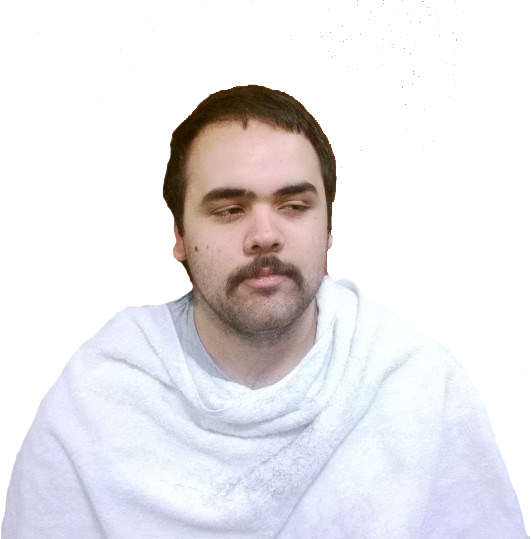
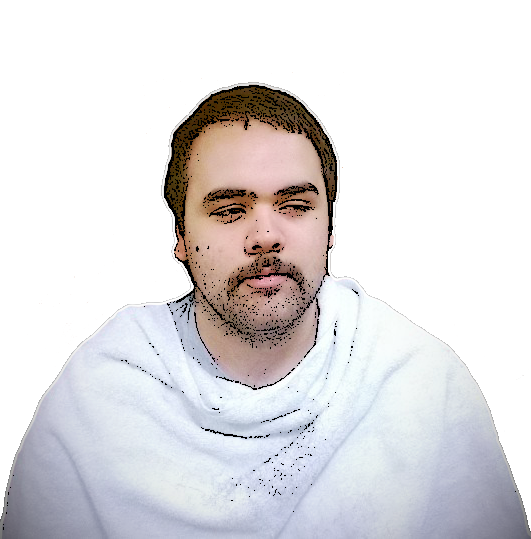
Redo photos; add sponsors and ads

diff --git a/info.html b/info.html
@@ -50,8 +50,7 @@
                     <div id="home" class="card largeMargin transparent center-align valign-wrapper">
                         <div class="full-width">
                             <h1>CoREhacks</h1>
-                            <h2>February 5-7, 2016</h2>
-                            <br />
+                            <h2>February 5-7, 2016</h2> 
                             <h2>Brainstorm ideas and <br /> work on CoRE projects!</h2>
                         </div>
                     </div>
@@ -139,6 +138,30 @@
                             <span class="card-title">Sponsors</span>
                             <p>
                                 <img src="assets/img/sponsors/core.png" />
+                                <div class="row addPadding">
+                                    <div class="col s6">
+                                        <div class="valign-wrapper center-align sponsor">
+                                            <img class="round" src="assets/img/sponsors/david.png">
+                                            <div class="valign name">
+                                                <p>David Kueper</p>
+                                            </div>
+                                        </div>
+                                    </div>
+                                    <div class="col s6">
+                                        <div class="valign-wrapper center-align sponsor">
+                                            <img class="round" src="assets/img/sponsors/carl.png">
+                                            <div class="valign name">
+                                                <p>Carl the Fish</p>
+                                            </div>
+                                        </div>
+                                    </div>
+                                </div>
+                                <div id="adSection">
+                                    <p>Sponsored Ad</p>
+                                    <a href="" target="_blank">
+                                        <img id="adImage" src="" />
+                                    </a>
+                                </div>
                             </p>
                         </div>
                     </div>
@@ -202,6 +225,17 @@
                     }, 500);
                     return false;
                 });
+
+                if (!!Math.floor(Math.random() * 2))
+                {
+                    $('#adSection a').prop('href', 'http://www.twitch.tv/tiredoflosing');
+                    $('#adSection img').prop('src', 'assets/img/sponsors/twitch-ad.png');
+                }
+                else
+                {
+                    $('#adSection a').prop('href', 'https://www.youtube.com/user/gabeochoa');
+                    $('#adSection img').prop('src', 'assets/img/sponsors/corecast-ad.png');
+                }
 
                 $('button').click(function() {
                     $('button').text('Now there\'s really no turning back');

diff --git a/assets/css/style.css b/assets/css/style.css
@@ -205,7 +205,7 @@ span.section-title {
     width: 18%;
     bottom: -28%; 
     height: auto;
-}        
+}
 
 #footer .bryan {
     -moz-transform: scaleX(-1);
@@ -228,6 +228,42 @@ span.section-title {
 
 #signup h1 {
     margin-bottom: 50px;
+}
+
+#sponsors img.round {
+    border-radius: 50%;
+    width: 150px;
+}
+
+#sponsors div.name p {
+    margin-left: 20px;
+    font-family: 'Roboto', sans-serif;
+    font-size: 28px;
+}
+
+div.addPadding {
+    margin-bottom: 50px;
+}
+
+div#adSection p {
+    width: 150px;
+    font-family: 'Roboto', sans-serif;
+    font-size: 14px;
+    font-weight: 300;
+    border-top: 2px solid #000;
+    border-left: 2px solid #000;
+    border-right: 2px solid #000;
+    margin: 0;
+    border-top-left-radius: 10px;
+    border-top-right-radius: 10px;
+    background-color: #eee;
+    padding: 2px 5px;
+    text-align: center;
+}
+
+div#adSection img {
+    width: 100%;
+    border: 2px solid #000;
 }
 
 div.full-width {
